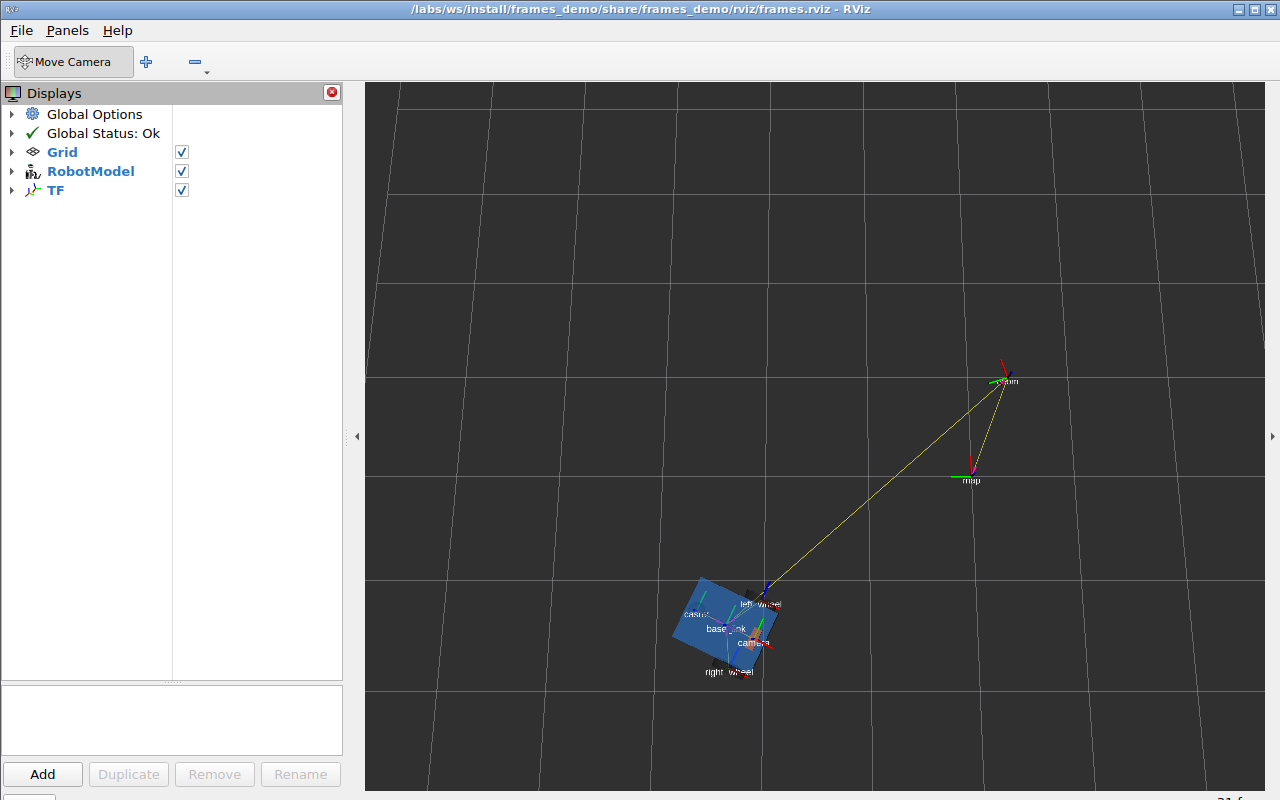
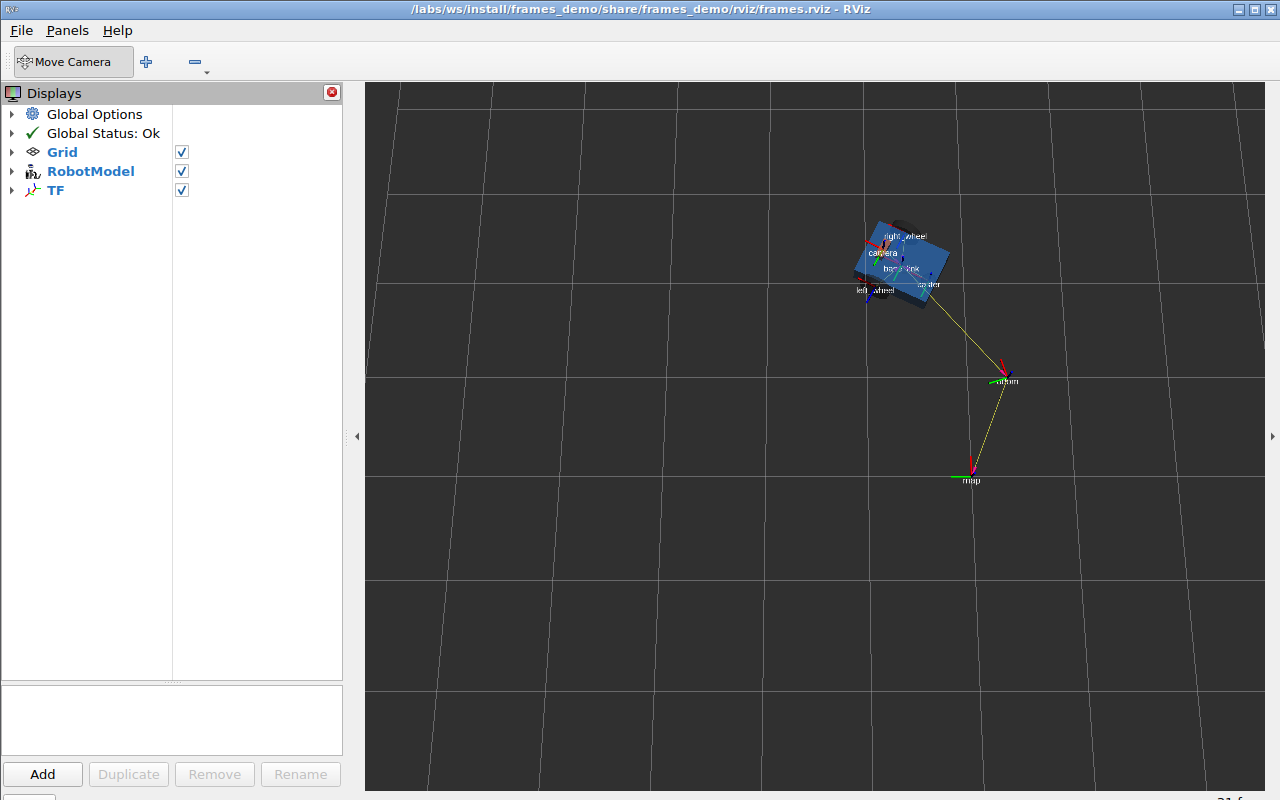
Make recordings and checkers hold on slower machines
CI's slower machines showed three races: where_is sometimes asked for
a transform before any had arrived, ros2 topic echo reported lost
best-effort odometry before printing a value, and the two QoS warnings
from one process came in either order. where_is now waits until the
frames exist, odometry echoes pass --no-lost-messages, and the lab's
silent graphs show only the subscriber's warning. The Lesson 8 checker
compares only results for detections both of its listeners heard.

Changed region(s): [[0.5312, 0.7188, 0.625, 0.8438], [0.6562, 0.2812, 0.75, 0.375]]

diff --git a/labs/lesson08/check.py b/labs/lesson08/check.py
@@ -69,9 +69,11 @@ c.check(
 )
 c.check("they are in the map frame", lambda: results and all(r[1] == "map" for r in results), "Set header.frame_id to map.")
 stamps = {s[0] for s in seen}
+# The two listeners start a moment apart: compare only results from detections both of them heard.
+covered = [r for r in results if stamps and min(stamps) <= r[0] <= max(stamps)]
 c.check(
     "each keeps the stamp of the detection it came from",
-    lambda: results and all(r[0] in stamps for r in results),
+    lambda: len(covered) >= 3 and all(r[0] in stamps for r in covered),
     "The point in the map frame describes the same moment: keep the detection's header.stamp.",
 )
 errors = [math.dist(r[2:], OBJECT) for r in results]

diff --git a/labs/lesson09/check.py b/labs/lesson09/check.py
@@ -29,7 +29,7 @@ WHEELS = {"left": {"front_left_wheel_joint", "rear_left_wheel_joint"}, "right": 
 
 def odom():
     """(x, y, yaw) from one /odom message, or None."""
-    _, text = ros("ros2 topic echo --once /odom nav_msgs/msg/Odometry --field pose.pose", isolated=True, timeout=15)
+    _, text = ros("ros2 topic echo --once --no-lost-messages /odom nav_msgs/msg/Odometry --field pose.pose", isolated=True, timeout=15)
     values = dict(re.findall(r"^\s*([xyzw]): (-?[\d.e-]+)$", text.split("orientation:")[0], re.M))
     turn = dict(re.findall(r"^\s*([xyzw]): (-?[\d.e-]+)$", text.split("orientation:")[-1], re.M))
     if not values or not turn:

diff --git a/labs/lesson17/check.py b/labs/lesson17/check.py
@@ -39,7 +39,7 @@ def goal(x, y, cancel_after=None):
 
 def odom():
     """(x, y, speed) from one /odom message, or None."""
-    _, text = ros("ros2 topic echo --once /odom nav_msgs/msg/Odometry", isolated=True, timeout=20)
+    _, text = ros("ros2 topic echo --once --no-lost-messages /odom nav_msgs/msg/Odometry", isolated=True, timeout=20)
     m = re.search(r"position:\s+x: (-?[\d.e-]+)\s+y: (-?[\d.e-]+)", text)
     v = re.search(r"twist:\s+twist:\s+linear:\s+x: (-?[\d.e-]+)", text)
     return (float(m.group(1)), float(m.group(2)), float(v.group(1))) if m and v else None

diff --git a/labs/lesson13/check.py b/labs/lesson13/check.py
@@ -29,7 +29,7 @@ def first_number(text):
 
 
 def echo_x(topic, kind="geometry_msgs/msg/Twist", field="linear.x"):
-    _, text = ros(f"ros2 topic echo --once {topic} {kind} --field {field}", isolated=True, timeout=20)
+    _, text = ros(f"ros2 topic echo --once --no-lost-messages {topic} {kind} --field {field}", isolated=True, timeout=20)
     return first_number(text)
 
 

diff --git a/labs/lesson08/examples/frames_demo/src/where_is.cpp b/labs/lesson08/examples/frames_demo/src/where_is.cpp
@@ -31,6 +31,10 @@ public:
 private:
   void tick()
   {
+    // Until the listener has heard both frames, there is nothing to ask about yet.
+    if (!buffer_->canTransform("map", "camera", tf2::TimePointZero)) {
+      return;
+    }
     try {
       if (ask_ahead_ > 0.0) {
         const tf2::TimePoint later = tf2_ros::fromMsg(now()) + tf2::durationFromSec(ask_ahead_);
